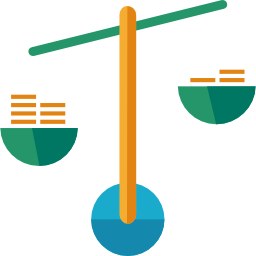
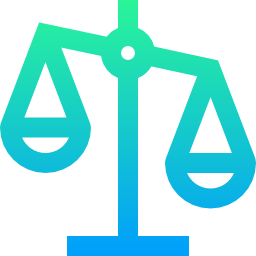
rearranged layout of causesGraph section

diff --git a/client/src/components/DashboardAct.js b/client/src/components/DashboardAct.js
@@ -14,6 +14,7 @@ import people from '../assets/people128.png';
 import charity from '../assets/charity128.png';
 import QA from '../assets/QA.png';
 import balance from '../assets/balance.png';
+import balanceSm from '../assets/balanceSm.png';
 import ScrollUpButton from 'react-scroll-up-button';
 const greaterMelb = require("./greaterMelb");
 
@@ -285,7 +286,14 @@ class DashboardAct extends Component {
         autorange: 'reversed',
       },
       showlegend: false,
-      title:`Here's the ranking of total donations and grants (A$) by all charitable causes <br />in ${valueLocation}`
+      autosize: true,
+      margin: {
+        l: 150,
+        r: 30,
+        b: 30,
+        t: 30,
+        pad: 4
+      }
     };
 
     // quick summary on top of plots
@@ -412,34 +420,35 @@ class DashboardAct extends Component {
           }
 
           <ScrollableAnchor id={'causesGraph'}>
-            <div className="row d-flex flex-column align-items-center" >
+            <div className="row d-flex flex-column align-items-center justify-content-center" >
               
               {/* quick summary of causes in current location */}
-              <div className="text-center mx-2">
-                <p className="h5-responsive mb-3">In <strong>{valueLocation}</strong>,</p>
-                <div className="row d-flex align-items-center justify-content-center">
+              <div className="text-center mx-2" style={{background: "#FAFAFA", width:"90vw"}}>
+                <img src={balanceSm} alt="smaller balance scale" className="img-responsive d-block d-sm-none mt-3 mx-auto"/>
+                <p className="h4-responsive my-3">In <strong>{valueLocation}</strong>,</p>
+                <div className="row d-flex align-items-center justify-content-center mb-3">
                   <div className="col col-11 col-sm-3">
+                    <i className="fa fa-hand-holding-usd" style={{color:"#E57373"}}></i>
+                    <br />
+                    {causesByLocation.length > 0 && 
+                      <span>
+                        <strong>{causeRecvLeast.name}</strong> received the <strong>least</strong> donations and grants: 
+                        <br />
+                        ${causeRecvLeastAmtWithCommas}.
+                      </span>
+                    }
+                  </div>
+                  <img src={balance} alt="balance scale" className="img-responsive d-none d-sm-block"/>
+                  <div className="col col-11 col-sm-3 mt-3">
                     <i className="fa fa-hand-holding-usd" style={{color:"#E57373"}}></i>
                     <i className="fa fa-hand-holding-usd" style={{color:"#E57373"}}></i>
                     <i className="fa fa-hand-holding-usd mr-3" style={{color:"#E57373"}}></i>
                     <br />
                     {causesByLocation.length > 0 && 
                       <span>
-                        <strong>{causeRecvMost.name}</strong> received the <strong>most</strong>: 
+                        <strong>{causeRecvMost.name}</strong> received the <strong>most</strong> donations and grants: 
                         <br />
                         ${causeRecvMostAmtWithCommas}.
-                      </span>
-                    }
-                  </div>
-                  <img src={balance} alt="balance scale" className="img-responsive d-none d-sm-block"/>
-                  <div className="col col-11 col-sm-3 mt-2">
-                    <i className="fa fa-hand-holding-usd" style={{color:"#E57373"}}></i>
-                    <br />
-                    {causesByLocation.length > 0 && 
-                      <span>
-                        <strong>{causeRecvLeast.name}</strong> received the <strong>least</strong>: 
-                        <br />
-                        ${causeRecvLeastAmtWithCommas}.
                       </span>
                     }
                   </div>
@@ -447,45 +456,43 @@ class DashboardAct extends Component {
               </div>
 
               {/* graph of causes in location */}
-              <div className="row d-flex align-items-stretch justify-content-center py-2 mx-4 small" style={{ height: "65vh" }}>
-                <Plot 
-                  data={plotData}
-                  layout={plotLayout}
-                  style={{width: "80vw", height: "60vh"}}
-                  onClick={this.handleClickOnCauseBar}
-                />
-
-                <small className="mt-3">
-                  Sources:&nbsp;&nbsp;
-                  <a href="https://data.gov.au/dataset/acnc2016ais/resource/b4a08924-af4f-4def-96f7-bf32ada7ee2b" target="_blank" rel="noopener noreferrer">
-                    1. ACNC 2016* Annual Information Statement Data
-                  </a>&nbsp;&nbsp;&nbsp;&nbsp;
-                  <a href="https://data.gov.au/dataset/acnc-register" target="_blank" rel="noopener noreferrer">
-                    2. ACNC Registered Charities
-                  </a>
-                </small>
-              </div>
-
-              {/* instruct user to click on a bar to see more about a cause */}
-              {!this.state.barClicked && 
-                <div className="row d-flex align-items-center justify-content-center pb-5 mx-4" 
-                      style={{border:"3px dashed #9E9E9E", padding: "2rem", margin:"1rem", width: "80vw"}}>
-                  <p>
-                    Click on a bar in the graph to see details of
-                    a cause
-                  </p>
-                  <p style={{width: "100%", textAlign: "center", borderBottom: "1px solid #9E9E9E", lineHeight: " 0.1em", margin: "10px 0 20px"}}>
-                    <span style={{background:"#f3f3f3", padding:"0 10px"}}> Or </span>
-                  </p>
-                  <button className="btn btn-outline-info" type="button" onClick={this.handleOnClickToSearch}>
+              <div className="row d-flex align-items-stretch justify-content-center py-2 mx-4">
+                
+                <p className="h4-responsive mt-5 mx-2 text-center">Here are more charitable causes in <strong>{valueLocation}</strong>:</p>
+                
+                <p className="col-12 text-center mx-2">
+                  Click on a bar in the graph to see details of
+                  a cause, or 
+                  <button className="btn btn-outline-info btn-sm" type="button" onClick={this.handleOnClickToSearch}>
                     Search for charities in 
                     { valueLocation !== "" && this.state.loading && 
                       <span> ... </span>}
                     {valueLocation !== "" && !this.state.loading && 
                       <span> {valueLocation} </span>}
                   </button>
-                </div>
-              }
+                </p>
+
+                <Plot 
+                  data={plotData}
+                  layout={plotLayout}
+                  style={{width: "90vw", height: "50vh"}}
+                  onClick={this.handleClickOnCauseBar}
+                  className="small"
+                />
+
+                <small className="mt-2 mx-2 text-center">
+                  <small>
+                    Sources:&nbsp;&nbsp;
+                    <a href="https://data.gov.au/dataset/acnc2016ais/resource/b4a08924-af4f-4def-96f7-bf32ada7ee2b" target="_blank" rel="noopener noreferrer">
+                      1. ACNC 2016* Annual Information Statement Data
+                    </a>&nbsp;&nbsp;&nbsp;&nbsp;
+                    <a href="https://data.gov.au/dataset/acnc-register" target="_blank" rel="noopener noreferrer">
+                      2. ACNC Registered Charities
+                    </a>
+                  </small>
+                </small>
+
+              </div>
 
             </div>
             
